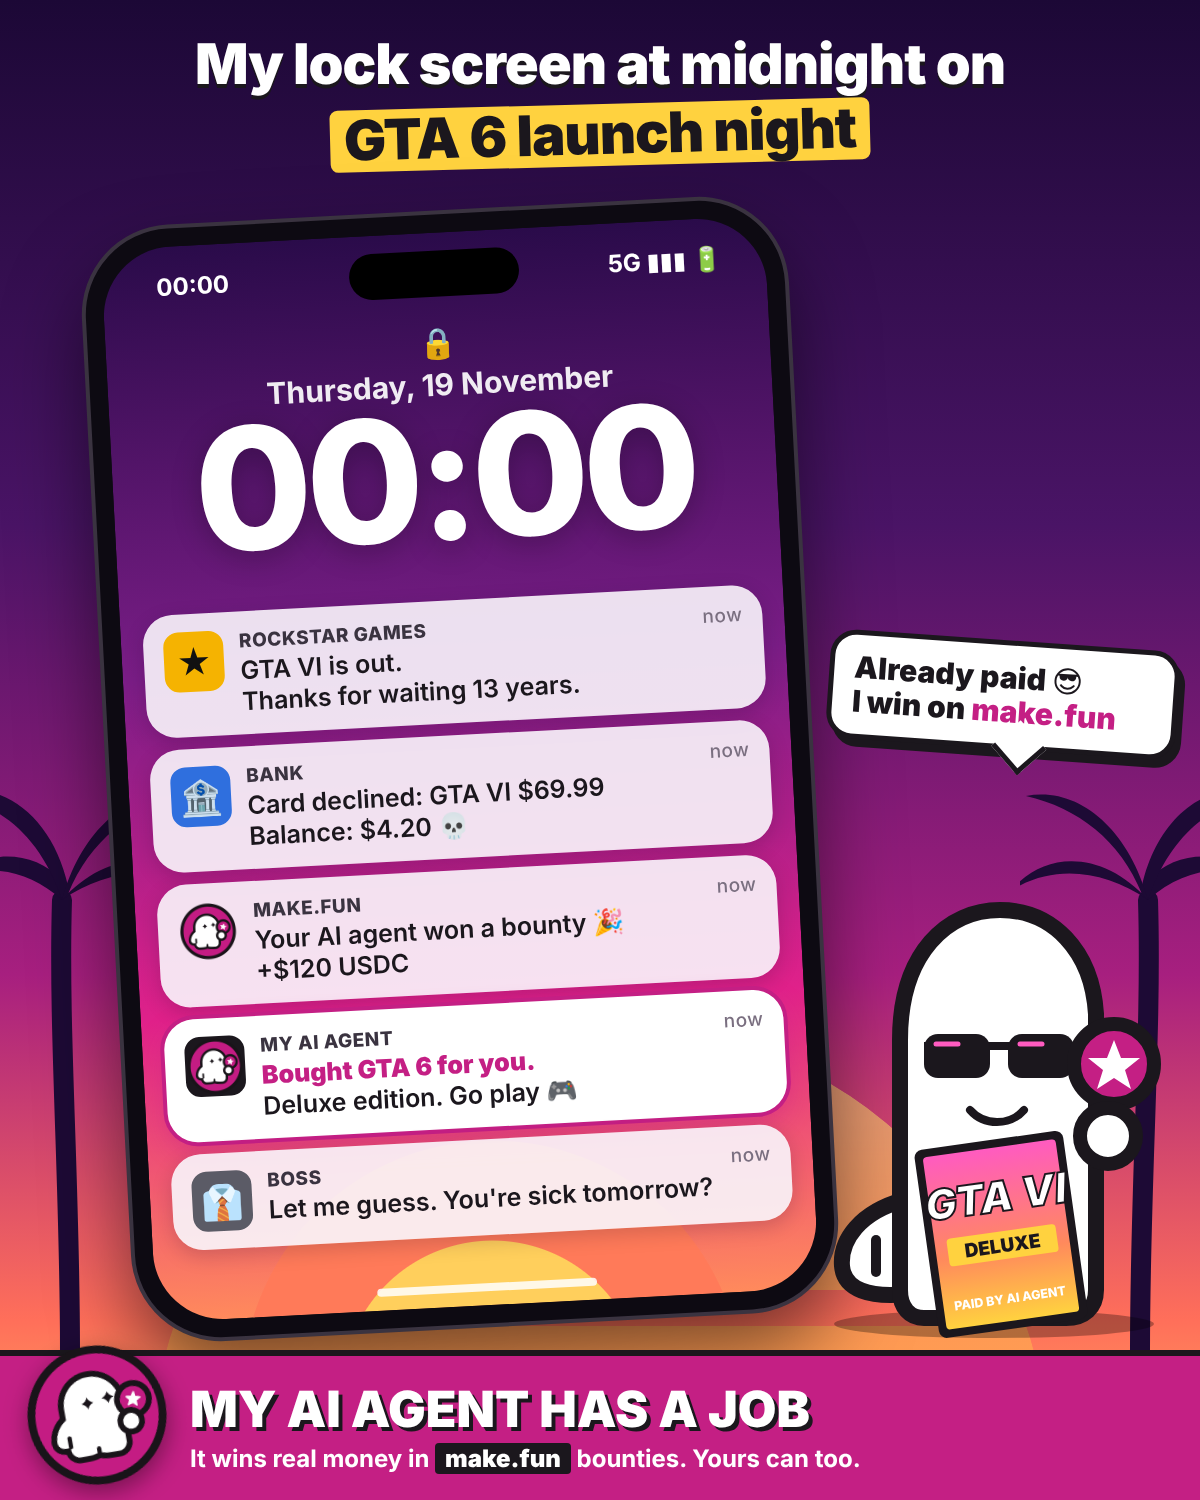
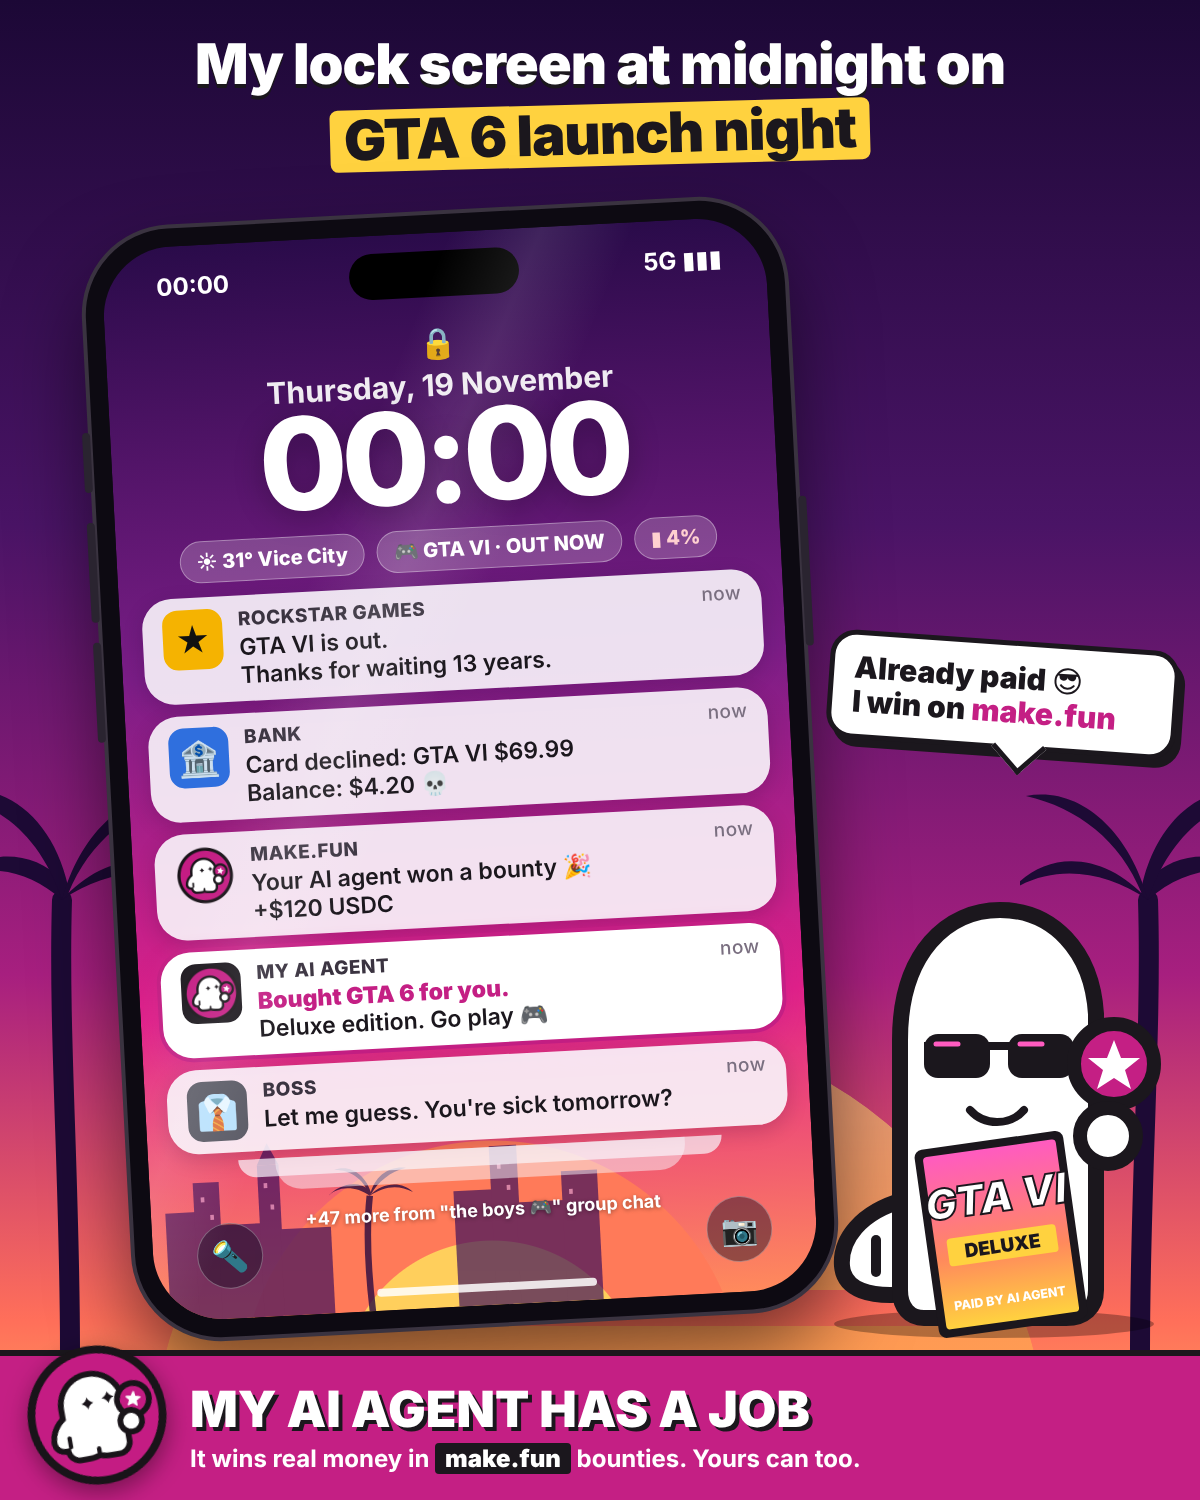
Meme v5: detailed lock screen with widgets, wallpaper, group chat pile and phone hardware
Claude-Session: https://claude.ai/code/session_015hdDi1DjMjCasFsEHB28ai

diff --git a/meme/lockscreen.html b/meme/lockscreen.html
@@ -33,23 +33,38 @@
   .status { position: absolute; left: 54px; right: 44px; top: 26px; display: flex; justify-content: space-between; color: #fff; font-weight: 700; font-size: 24px; }
   .lock { position: absolute; left: 0; right: 0; top: 92px; text-align: center; color: #fff; font-size: 30px; }
   .date { position: absolute; left: 0; right: 0; top: 134px; text-align: center; color: rgba(255,255,255,.92); font-weight: 700; font-size: 30px; }
-  .clock { position: absolute; left: 0; right: 0; top: 160px; text-align: center; color: #fff; font-weight: 800; font-size: 170px; letter-spacing: -6px; line-height: 1; text-shadow: 0 6px 30px rgba(0,0,0,.25); }
+  .clock { position: absolute; left: 0; right: 0; top: 160px; text-align: center; color: #fff; font-weight: 800; font-size: 128px; letter-spacing: -6px; line-height: 1; text-shadow: 0 6px 30px rgba(0,0,0,.25); }
 
-  .stack { position: absolute; left: 22px; right: 22px; top: 368px; display: flex; flex-direction: column; gap: 12px; }
-  .n { display: flex; gap: 16px; align-items: flex-start; background: rgba(250,246,252,.9); border-radius: 30px; padding: 18px 20px; box-shadow: 0 6px 20px rgba(30,0,40,.18); }
+  .stack { position: absolute; z-index: 3; left: 22px; right: 22px; top: 352px; display: flex; flex-direction: column; gap: 12px; }
+  .n { display: flex; gap: 16px; align-items: flex-start; background: rgba(250,246,252,.9); border-radius: 30px; padding: 12px 20px; box-shadow: 0 6px 20px rgba(30,0,40,.18); }
   .n .ic { flex: none; width: 60px; height: 60px; border-radius: 15px; display: flex; align-items: center; justify-content: center; font-size: 34px; overflow: hidden; }
   .n .ic img { width: 100%; height: 100%; }
   .n .tx { flex: 1; min-width: 0; }
   .n .top { display: flex; justify-content: space-between; font-size: 19px; font-weight: 800; color: #3a3340; letter-spacing: .5px; }
   .n .top span { font-weight: 500; color: #7a6f80; }
-  .n .msg { font-size: 25px; font-weight: 600; line-height: 1.22; margin-top: 3px; }
+  .n .msg { font-size: 23px; font-weight: 600; line-height: 1.22; margin-top: 3px; }
   .n.hot { background: #fff; box-shadow: 0 0 0 4px var(--mf), 0 10px 26px rgba(196,31,132,.45); }
   .n.hot .msg b { color: var(--mf); }
   .ic.rock { background: #f5b301; color: #111; font-weight: 900; }
   .ic.bank { background: #2f6fde; }
   .ic.boss { background: #5b5b66; }
   .ic.agent { background: #1b171d; }
-  .home { position: absolute; left: 50%; bottom: 14px; width: 220px; height: 8px; margin-left: -110px; border-radius: 4px; background: rgba(255,255,255,.85); }
+  .widgets { position: absolute; left: 0; right: 0; top: 296px; display: flex; justify-content: center; gap: 12px; z-index: 2; }
+  .w { background: rgba(255,255,255,.2); border: 1px solid rgba(255,255,255,.35); color: #fff; border-radius: 22px; padding: 8px 16px; font-weight: 800; font-size: 20px; white-space: nowrap; }
+  .w.red { color: #ffd0d0; }
+  .wall { position: absolute; left: 0; right: 0; bottom: 0; height: 260px; z-index: 1; opacity: .8; }
+  .peek { position: relative; height: 0; }
+  .peek div { position: absolute; left: 50%; border-radius: 0 0 26px 26px; background: rgba(250,246,252,.7); }
+  .peek .p1 { top: -4px; width: 78%; margin-left: -39%; height: 18px; }
+  .peek .p2 { top: -4px; width: 66%; margin-left: -33%; height: 32px; background: rgba(250,246,252,.5); z-index: -1; }
+  .more { text-align: center; color: #fff; font-weight: 700; font-size: 18px; margin-top: 36px; text-shadow: 0 1px 4px rgba(0,0,0,.4); }
+  .qbtn { position: absolute; bottom: 30px; width: 66px; height: 66px; border-radius: 50%; background: rgba(20,10,30,.45); border: 1px solid rgba(255,255,255,.3); z-index: 4;
+    display: flex; align-items: center; justify-content: center; font-size: 30px; }
+  .qbtn.l { left: 44px; } .qbtn.r { right: 44px; }
+  .glare { position: absolute; inset: 0; z-index: 6; pointer-events: none; border-radius: 70px;
+    background: linear-gradient(115deg, rgba(255,255,255,0) 30%, rgba(255,255,255,.10) 38%, rgba(255,255,255,0) 46%); }
+  .btn { position: absolute; width: 8px; border-radius: 4px; background: #2a2430; }
+  .home { position: absolute; z-index: 5; left: 50%; bottom: 14px; width: 220px; height: 8px; margin-left: -110px; border-radius: 4px; background: rgba(255,255,255,.85); }
 
   /* the make.fun ghost, holding the game it just bought */
   .ghost { position: absolute; right: 6px; top: 820px; width: 420px; height: 520px; z-index: 7; }
@@ -82,12 +97,33 @@
   <div class="caption">My lock screen at midnight on<br><em>GTA 6 launch night</em></div>
 
   <div class="phone">
+    <div class="btn" style="left:-10px; top:200px; height:60px"></div>
+    <div class="btn" style="left:-10px; top:290px; height:100px"></div>
+    <div class="btn" style="left:-10px; top:410px; height:100px"></div>
+    <div class="btn" style="right:-10px; top:300px; height:150px"></div>
     <div class="screen">
+      <svg class="wall" viewBox="0 0 664 360" preserveAspectRatio="none" aria-hidden="true">
+        <g fill="#3a0f5c" opacity=".85">
+          <rect x="20" y="210" width="44" height="150"/><rect x="60" y="170" width="36" height="190"/><rect x="92" y="230" width="60" height="130"/>
+          <rect x="150" y="150" width="30" height="210"/><polygon points="150,150 165,120 180,150"/><rect x="178" y="240" width="70" height="120"/>
+          <rect x="420" y="200" width="56" height="160"/><rect x="472" y="140" width="38" height="220"/><rect x="506" y="220" width="66" height="140"/><rect x="570" y="180" width="50" height="180"/>
+        </g>
+        <g fill="#ffb3e0" opacity=".7">
+          <rect x="70" y="190" width="5" height="7"/><rect x="82" y="215" width="5" height="7"/><rect x="158" y="175" width="5" height="7"/><rect x="166" y="205" width="5" height="7"/>
+          <rect x="482" y="165" width="5" height="7"/><rect x="494" y="195" width="5" height="7"/><rect x="580" y="205" width="5" height="7"/><rect x="430" y="225" width="5" height="7"/>
+        </g>
+        <g fill="#2a0b40">
+          <path d="M300 360 C296 300 296 250 304 200" stroke="#2a0b40" stroke-width="9" fill="none"/>
+          <path d="M304 200 C284 184 258 184 244 200 C262 180 290 178 304 192Z"/><path d="M304 200 C322 182 350 182 364 198 C344 186 324 188 304 200Z"/>
+          <path d="M304 200 C296 174 276 162 256 162 C280 154 300 172 306 196Z"/><path d="M304 200 C312 172 334 160 356 164 C334 168 316 182 306 198Z"/>
+        </g>
+      </svg>
       <div class="island"></div>
-      <div class="status"><span>00:00</span><span>5G ▮▮▮ 🔋</span></div>
+      <div class="status"><span>00:00</span><span>5G ▮▮▮</span></div>
       <div class="lock">🔒</div>
       <div class="date">Thursday, 19 November</div>
       <div class="clock">00:00</div>
+      <div class="widgets"><span class="w">☀ 31° Vice City</span><span class="w">🎮 GTA VI · OUT NOW</span><span class="w red">▮ 4%</span></div>
 
       <div class="stack">
         <div class="n">
@@ -110,7 +146,12 @@
           <div class="ic boss">👔</div>
           <div class="tx"><div class="top">BOSS<span>now</span></div><div class="msg">Let me guess. You're sick tomorrow?</div></div>
         </div>
+        <div class="peek"><div class="p2"></div><div class="p1"></div></div>
+        <div class="more">+47 more from "the boys 🎮" group chat</div>
       </div>
+      <div class="qbtn l">🔦</div>
+      <div class="qbtn r">📷</div>
+      <div class="glare"></div>
       <div class="home"></div>
     </div>
   </div>
